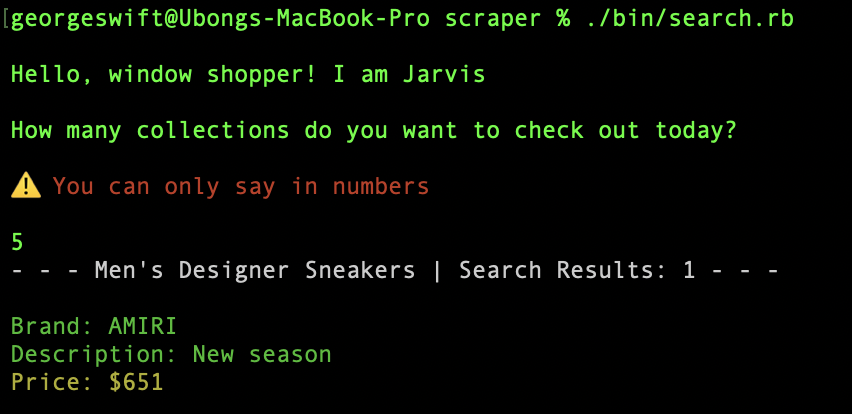
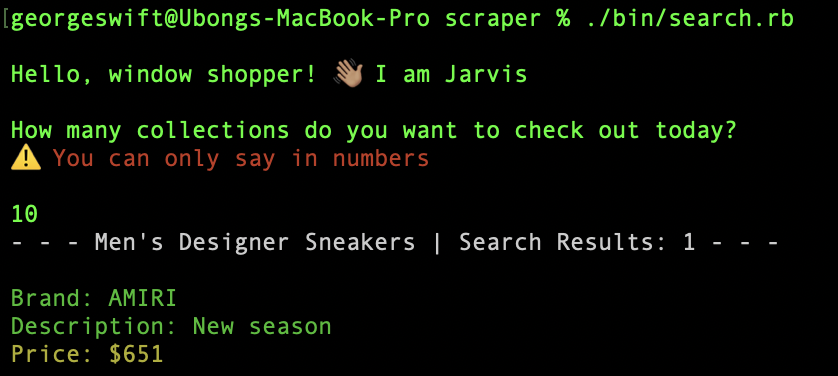
Add newline with updated screenshot

diff --git a/bin/search.rb b/bin/search.rb
@@ -9,7 +9,7 @@ product = designers.description
 price = designers.price
 puts "\nHello, window shopper! 👋🏽 I am Jarvis \n\n"
 sleep(1)
-puts "How many collections do you want to check out today? \n"
+puts 'How many collections do you want to check out today?'
 puts "⚠  You can only say in numbers \n".red
 collections = gets.chomp.to_i
 (0...collections).each do |index|
@@ -18,3 +18,4 @@ collections = gets.chomp.to_i
   puts "Description: #{product[index].capitalize}".green
   puts "Price: #{price[index]}\n".yellow
 end
+puts "Happy window shopping! 🛒 \n\n".blue
